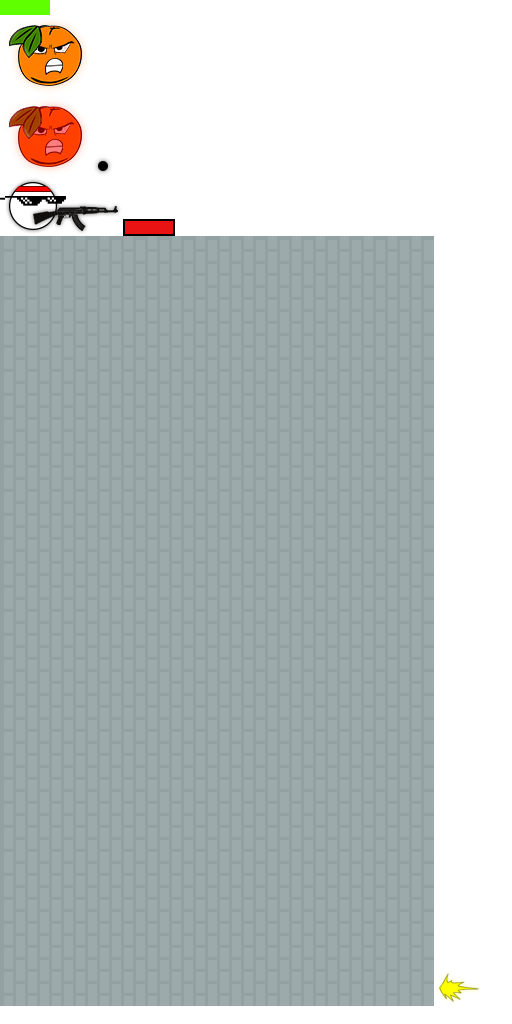
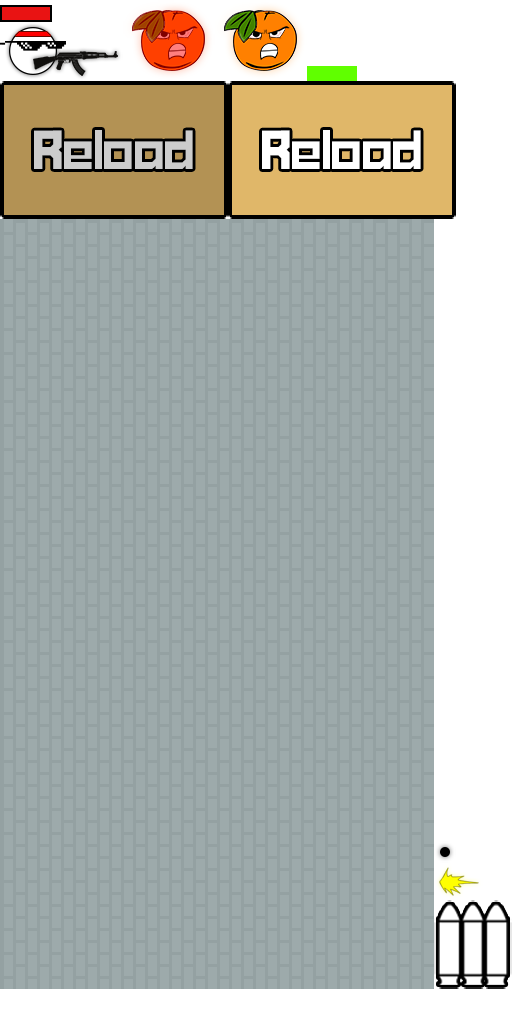
updatess

Changed region(s): [[0.0, 0.0, 0.9062, 0.25], [0.0, 0.8125, 1.0, 1.0]]

diff --git a/core/src/com/nahroto/fruitdestroyer/entities/Player.java b/core/src/com/nahroto/fruitdestroyer/entities/Player.java
@@ -92,49 +92,51 @@ public class Player
 
     public void shoot()
     {
-        shotSFX.play();
-
-        ammo--;
-
-        if (offsetNeeded == false)
-            timeSinceShot = System.currentTimeMillis();
-
-        offsetNeeded = true;
-        flashNeeded = true;
-
-
-        // System.out.println(Bullet.totalBullets.get(0).isUsed);
-        for (int i = 0; i < Bullet.totalBullets.size; i++)
+        if (ammo > 0) // IF THERE IS AMMO
         {
-            if (Bullet.totalBullets.get(i).isUsed == false)
+            shotSFX.play();
+
+            ammo--; // REDUCE AMMO BY 1
+
+            if (offsetNeeded == false)
+                timeSinceShot = System.currentTimeMillis();
+
+            offsetNeeded = true;
+            flashNeeded = true;
+
+            // System.out.println(Bullet.totalBullets.get(0).isUsed);
+            for (int i = 0; i < Bullet.totalBullets.size; i++)
             {
-                Bullet.totalBullets.get(i).isOutOfScreen = false;
-                Bullet.totalBullets.get(i).isUsed = true;
+                if (Bullet.totalBullets.get(i).isUsed == false)
+                {
+                    Bullet.totalBullets.get(i).isOutOfScreen = false;
+                    Bullet.totalBullets.get(i).isUsed = true;
 
-                float length = (float)Math.sqrt(deltaX * deltaX + deltaY * deltaY);
+                    float length = (float) Math.sqrt(deltaX * deltaX + deltaY * deltaY);
 
-                deltaY *= -1;
+                    deltaY *= -1;
 
-                float directionX = deltaX / length;
-                float directionY = deltaY / length;
+                    float directionX = deltaX / length;
+                    float directionY = deltaY / length;
 
-                float bulletPositionX = (MathUtils.cos(angle * MathUtils.degreesToRadians) * 85);
-                float bulletPositionY = (MathUtils.sin(angle * MathUtils.degreesToRadians) * 85);
+                    float bulletPositionX = (MathUtils.cos(angle * MathUtils.degreesToRadians) * 85);
+                    float bulletPositionY = (MathUtils.sin(angle * MathUtils.degreesToRadians) * 85);
 
-                flashPositionX = (MathUtils.cos(angle * MathUtils.degreesToRadians) * 80);
-                flashPositionY = (MathUtils.sin(angle * MathUtils.degreesToRadians) * 80);
+                    flashPositionX = (MathUtils.cos(angle * MathUtils.degreesToRadians) * 80);
+                    flashPositionY = (MathUtils.sin(angle * MathUtils.degreesToRadians) * 80);
 
-                flashSprite.setRotation(angle);
-                flashSprite.setPosition(Constants.V_WIDTH / 2 + flashPositionX - 3, Constants.V_HEIGHT / 2 + flashPositionY - (35 / 2));
+                    flashSprite.setRotation(angle);
+                    flashSprite.setPosition(Constants.V_WIDTH / 2 + flashPositionX - 3, Constants.V_HEIGHT / 2 + flashPositionY - (35 / 2));
 
-                // OFFSET PLAYER TO GIVE KICK
-                offsetBack();
+                    // OFFSET PLAYER TO GIVE KICK
+                    offsetBack();
 
-                Bullet.totalBullets.get(i).setPosition((Constants.V_WIDTH / 2 + bulletPositionX) - 10, (Constants.V_HEIGHT / 2 + bulletPositionY) - 10);
-                Bullet.totalBullets.get(i).setVelocity(directionX * Bullet.VELOCITY, directionY * Bullet.VELOCITY);
+                    Bullet.totalBullets.get(i).setPosition((Constants.V_WIDTH / 2 + bulletPositionX) - 10, (Constants.V_HEIGHT / 2 + bulletPositionY) - 10);
+                    Bullet.totalBullets.get(i).setVelocity(directionX * Bullet.VELOCITY, directionY * Bullet.VELOCITY);
 
-                Bullet.currentBullets.add(Bullet.totalBullets.get(i));
-                break;
+                    Bullet.currentBullets.add(Bullet.totalBullets.get(i));
+                    break;
+                }
             }
         }
     }

diff --git a/core/src/com/nahroto/fruitdestroyer/screens/GameScreen.java b/core/src/com/nahroto/fruitdestroyer/screens/GameScreen.java
@@ -20,6 +20,7 @@ import com.nahroto.fruitdestroyer.InputHandler;
 import com.nahroto.fruitdestroyer.entities.Bullet;
 import com.nahroto.fruitdestroyer.entities.Player;
 import com.nahroto.fruitdestroyer.entities.enemies.Enemy;
+import com.nahroto.fruitdestroyer.huds.GameHud;
 
 public class GameScreen implements Screen
 {
@@ -32,10 +33,12 @@ public class GameScreen implements Screen
     private Input input;
     private CollisionHandler collisionHandler;
     private BitmapFont font;
+    private GameHud gameHud;
 
-    public GameScreen(final Application APP, TextureRegion bg, Player player, InputMultiplexer inputMultiplexer, InputHandler inputHandler, Input input, CollisionHandler collisionHandler)
+    public GameScreen(final Application APP, GameHud gameHud, TextureRegion bg, Player player, InputMultiplexer inputMultiplexer, InputHandler inputHandler, Input input, CollisionHandler collisionHandler)
     {
         this.APP = APP;
+        this.gameHud = gameHud;
         this.bg = bg;
         this.player = player;
         this.inputMultiplexer = inputMultiplexer;

diff --git a/core/src/com/nahroto/fruitdestroyer/huds/GameHud.java b/core/src/com/nahroto/fruitdestroyer/huds/GameHud.java
@@ -1,0 +1,22 @@
+package com.nahroto.fruitdestroyer.huds;
+
+import com.badlogic.gdx.graphics.g2d.SpriteBatch;
+import com.badlogic.gdx.graphics.g2d.TextureRegion;
+import com.badlogic.gdx.scenes.scene2d.ui.ImageButton;
+import com.badlogic.gdx.scenes.scene2d.utils.TextureRegionDrawable;
+import com.badlogic.gdx.utils.viewport.Viewport;
+
+public class GameHud extends Hud
+{
+    private ImageButton reloadButton;
+
+    public GameHud(Viewport viewport, SpriteBatch batch, TextureRegion reloadButtonUp, TextureRegion reloadButtonDown)
+    {
+        super(viewport, batch);
+        
+        reloadButton = new ImageButton(new TextureRegionDrawable(reloadButtonUp), new TextureRegionDrawable(reloadButtonDown));
+
+        actors.add(reloadButton);
+        addAllActorsToStage();
+    }
+}

diff --git a/core/src/com/nahroto/fruitdestroyer/entities/Bullet.java b/core/src/com/nahroto/fruitdestroyer/entities/Bullet.java
@@ -52,7 +52,7 @@ public class Bullet
 
     private void isOutOfScreen()
     {
-        if (position.x > Constants.V_WIDTH || position.x  + sprite.getWidth() < 0 || position.y > Constants.V_HEIGHT || position.y  + sprite.getHeight()< 0)
+        if (position.x > Constants.V_WIDTH || position.x  + sprite.getWidth() < 0 || position.y > Constants.V_HEIGHT || position.y  + sprite.getHeight() < 0)
             isOutOfScreen = true;
         else
             isOutOfScreen = false;
